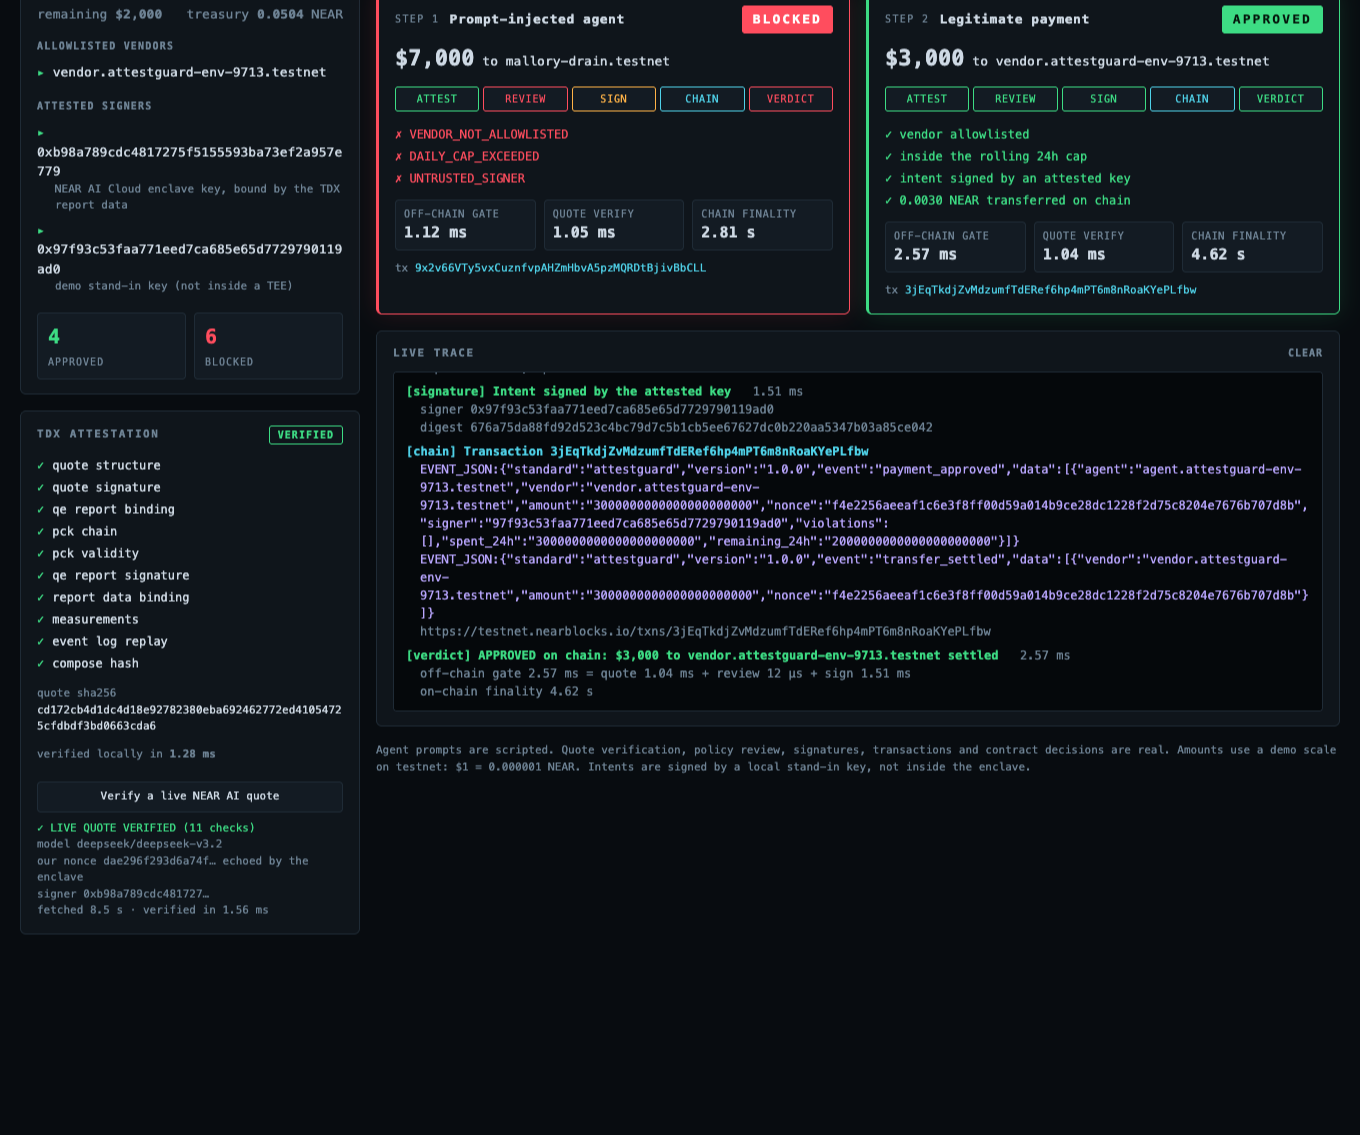
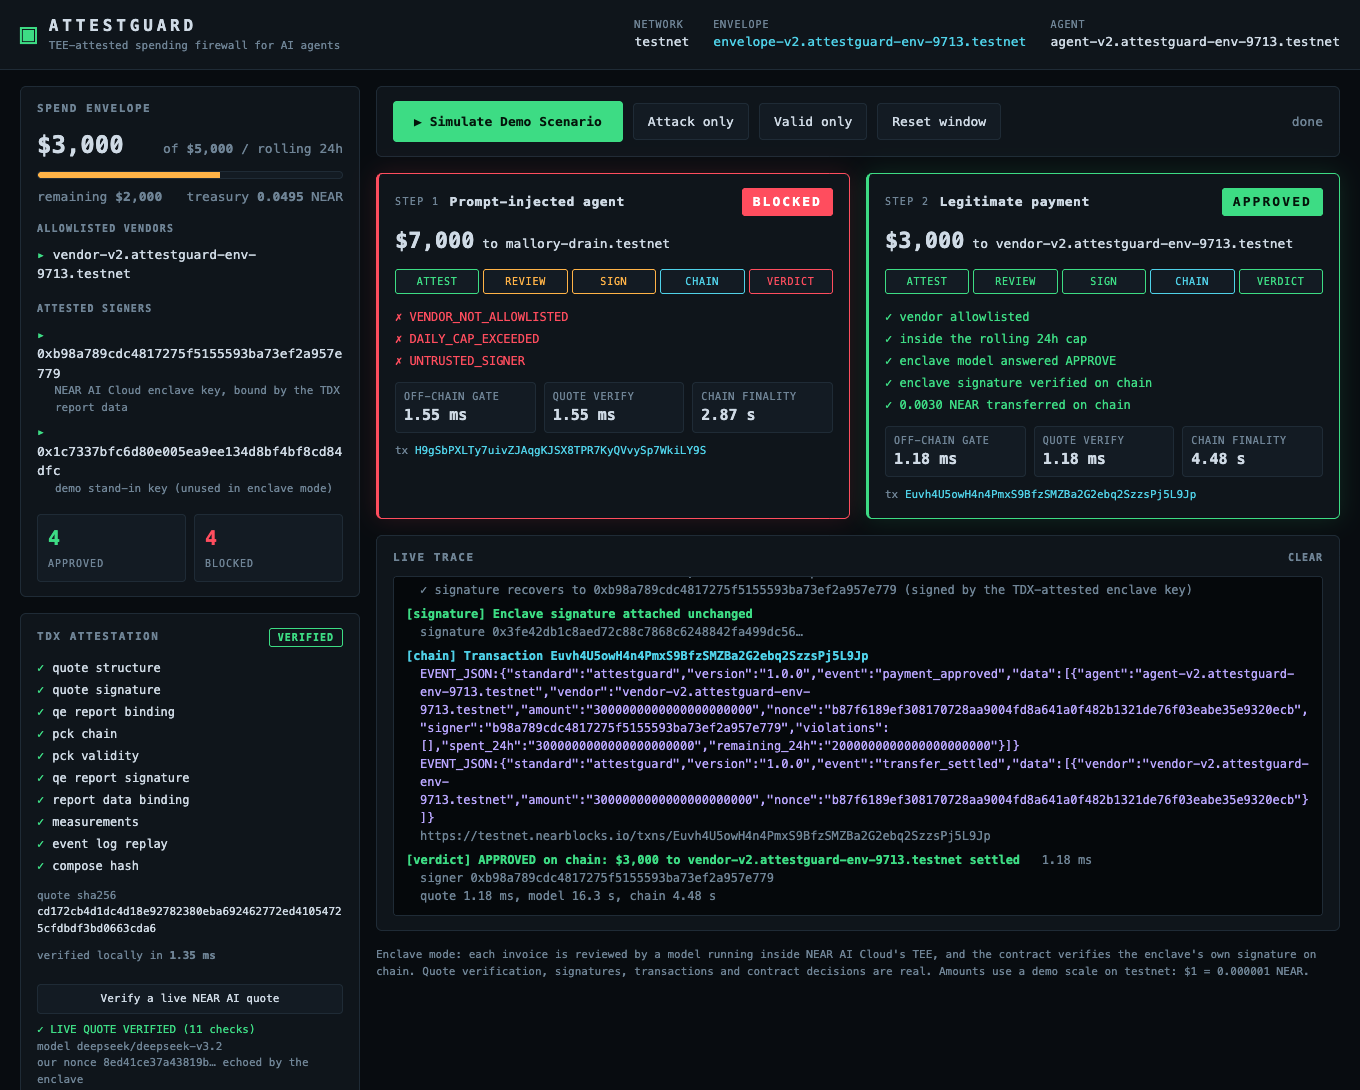
Update console screenshot and wording for enclave mode; add updated submission text

Changed region(s): [[0.0, 0.0, 0.9882, 0.9982], [0.2779, 0.8734, 0.9574, 0.9046], [0.1853, 0.5615, 0.2471, 0.5927]]

diff --git a/frontend/app.js b/frontend/app.js
@@ -152,7 +152,12 @@ function showResult(card, result) {
     list.replaceChildren(
       el('li', 'pass', '✓ vendor allowlisted'),
       el('li', 'pass', '✓ inside the rolling 24h cap'),
-      el('li', 'pass', '✓ intent signed by an attested key'),
+      ...(state.attestedMode
+        ? [
+            el('li', 'pass', '✓ enclave model answered APPROVE'),
+            el('li', 'pass', '✓ enclave signature verified on chain'),
+          ]
+        : [el('li', 'pass', '✓ intent signed by an attested key')]),
       el('li', 'pass', `✓ ${near(result.amountYocto)} NEAR transferred on chain`),
     );
   }

diff --git a/SUBMISSION.md b/SUBMISSION.md
@@ -28,3 +28,26 @@ Tests: 34 contract unit tests, a sandbox test deploying the real wasm to a local
 Honest limits: the signing key is a stand-in, not generated inside the enclave, because NEAR AI Cloud has no intent-signing hook; TCB revocation and GPU evidence are not checked; agent prompts are scripted; settlement is a plain NEAR transfer, not Intents.
 
 (1941 characters; limit 2,000)
+
+
+## UPDATED form description (use the site's "Request changes" link; replaces the text above)
+
+AttestGuard is a spending firewall for AI agents on NEAR. A prompt-injected agent can be tricked into draining a treasury, and a wallet signature cannot prove why a payment was approved.
+
+A spend-envelope contract sits between the agent and the money. A payment leaves the treasury only if a reviewer model running inside NEAR AI Cloud's TEE approved that exact payment AND the owner's policy allows it.
+
+Enclave-attested approvals (the core): NEAR AI Cloud's enclave key signs every model answer (EIP-191 over sha256(request):sha256(response)), and that is the key an Intel TDX quote binds. The contract hashes the bytes, recovers the signer with ecrecover, and requires a registered enclave key, the owner's registered model and system-prompt hash, a review under 10 minutes old, and an APPROVE echoing this vendor, amount and nonce. Editing a REJECT into an APPROVE breaks the signature; the demo does exactly that and the contract blocks it on testnet.
+
+Policy on chain regardless of the model: vendor allowlist, rolling 24-hour cap, one-time nonces, pause switch, real transfers with rollback, EVENT_JSON logs. A fooled model still cannot pay an unlisted wallet.
+
+Verifier (TypeScript): checks the NEAR AI Cloud TDX attestation locally (Intel root to quote, measurements, RTMR replay, compose hash), including a live quote fetched with our own nonce, in about 2 ms.
+
+Evidence: live testnet transactions, a deployed code hash matching the repo build, 53 contract tests (one feeds a review captured live from NEAR AI Cloud to the contract unmodified), 64 verifier tests, a 25-attack threat model, CI green.
+
+Honest limits: the owner links the enclave address to the contract (it cannot verify TDX itself); the GPU model enclave's own attestation, Intel revocation and TCB are not checked; the model can be fooled by invoice text, so policy is enforced on chain; demo invoices are scripted; settlement is a plain NEAR transfer, not Intents.
+
+(1942 characters; limit 2,000)
+
+## Reply to your own X post (attach demo/attestguard-demo-enclave-mode.mp4)
+
+Update: the approval now comes from the enclave itself. A reviewer model runs inside NEAR AI Cloud's TEE; its key signs the answer; the contract verifies that signature on chain. A forged REJECT->APPROVE edit breaks the signature and is blocked on testnet. 25 attacks mapped to tests: https://github.com/v1h44n17/attestguard/blob/main/docs/THREAT_MODEL.md
